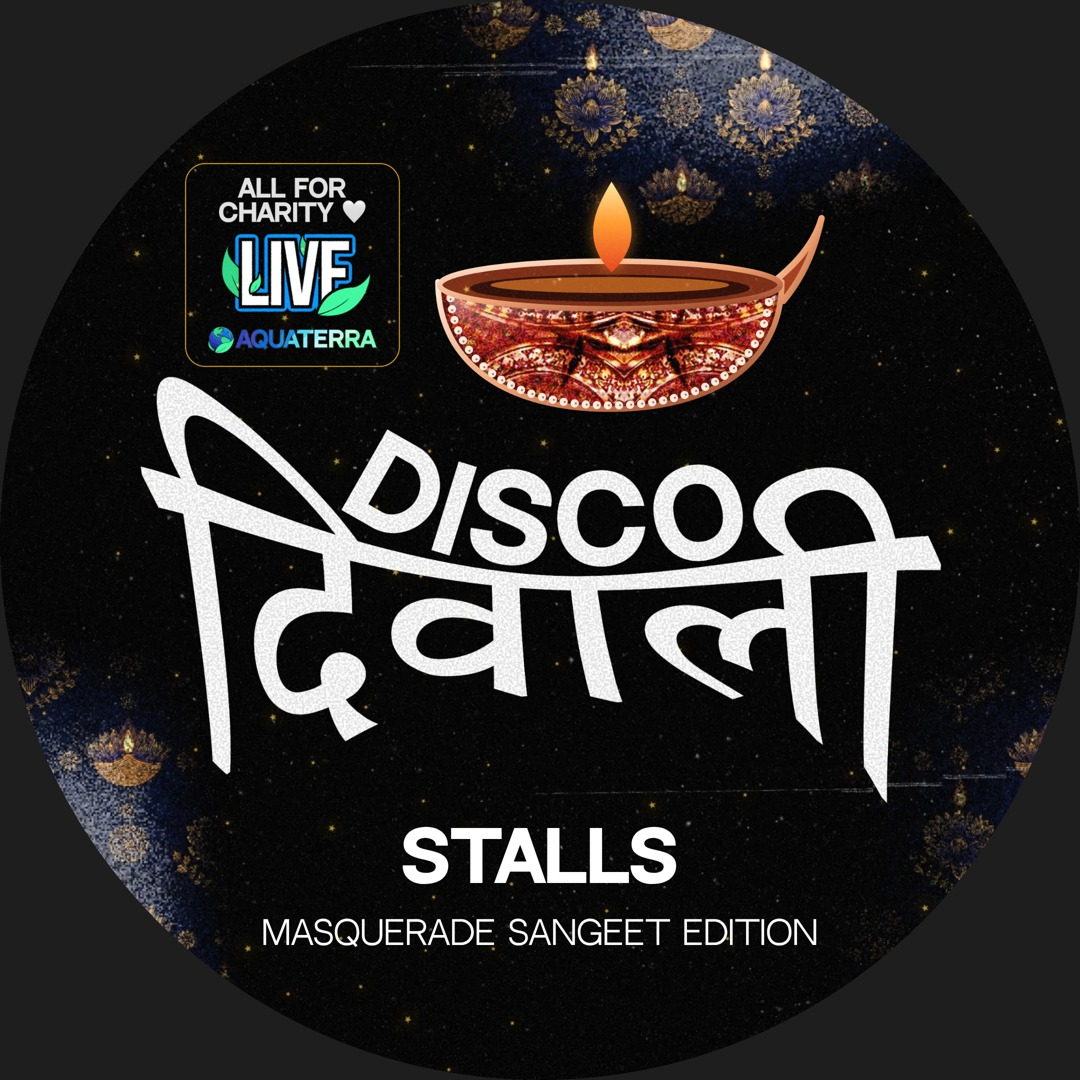
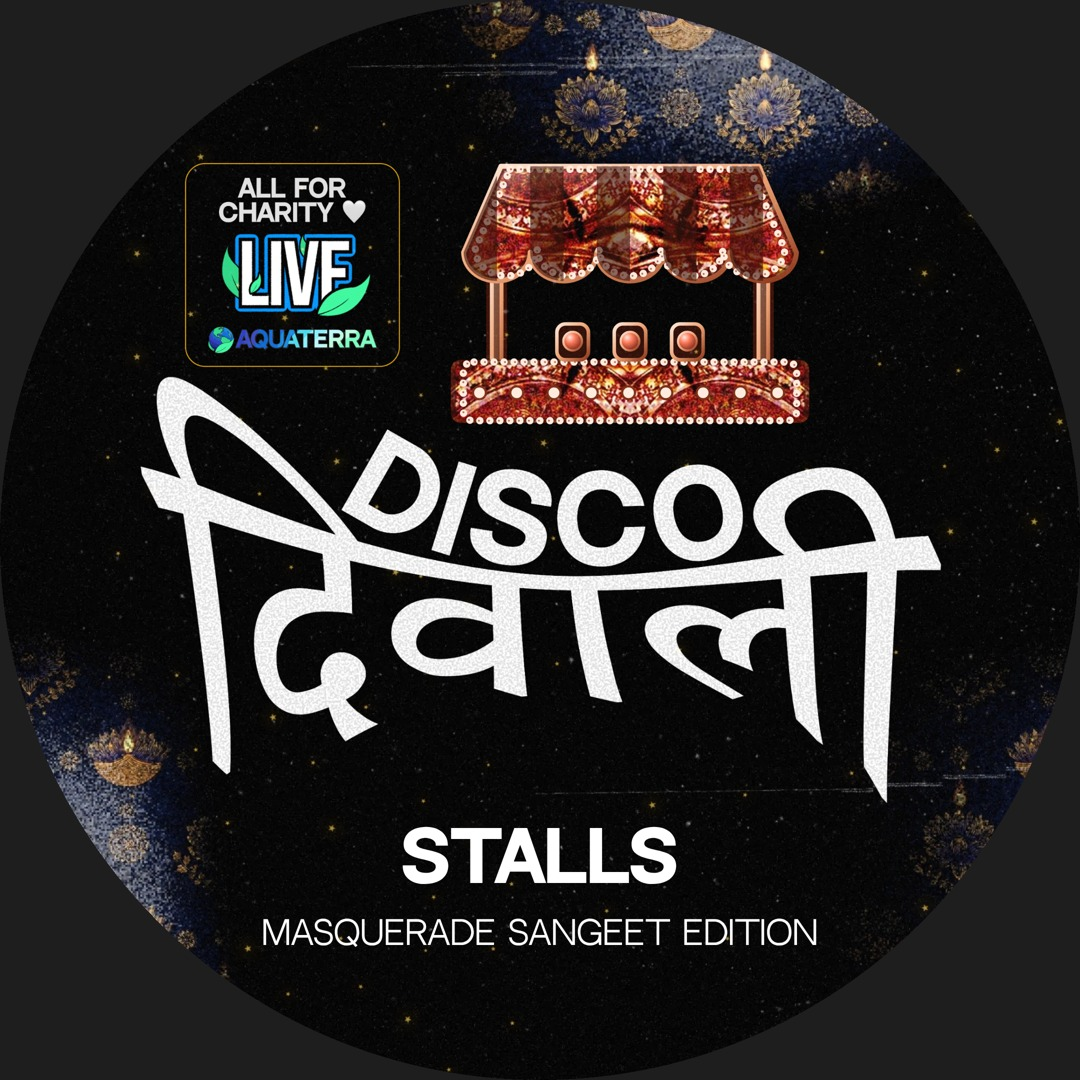
Disco Diwali: copper market-stall sticker, used on the stalls group DP
Claude-Session: https://claude.ai/code/session_01NMJzQ744hzFCayFxgENyjN

Changed region(s): [[0.3972, 0.1528, 0.7639, 0.3972]]

diff --git a/scratchpad/dd_copper.py b/scratchpad/dd_copper.py
@@ -88,3 +88,20 @@ def pin(size=340, rot=0, u="p", shadow=True):
             f'<circle cx="200" cy="150" r="66" fill="#2E0C05" stroke="url(#tr{u})" stroke-width="8"/>'
             f'<circle cx="200" cy="150" r="66" fill="none" stroke="#FFEBDD" stroke-width="9" stroke-dasharray="0 14" stroke-linecap="round" transform="translate(200 150) scale(.84) translate(-200 -150)"/>'
             f'<circle cx="200" cy="150" r="34" fill="url(#gem{u})" stroke="url(#tr{u})" stroke-width="6"/></g></svg>')
+
+
+def stall(size=420, rot=0, u="t", shadow=True):
+    """Copper market stall (for the stalls group): a scalloped awning with dark stripes, two posts, a beaded counter and three gem jars on it. Surface is the mask's own copper texture."""
+    n, w0 = 5, 92.8
+    awn = "M70 30 H430 L482 150 " + "".join(f"A{w0 / 2} 40 0 0 1 {482 - w0 * (i + 1):.1f} 150 " for i in range(n)) + "L70 30 Z"
+    bands = "".join(f'<rect x="{18 + w0 * i:.1f}" y="20" width="{w0 / 2:.1f}" height="190" fill="#3A0F06" opacity=".62"/>' for i in range(n))
+    post = lambda x, k: (f'<rect x="{x}" y="170" width="24" height="190" rx="6" fill="url(#tr{u})" stroke="#3A0F06" stroke-width="5"/>'
+                         f'<rect x="{x + 8}" y="180" width="8" height="165" rx="4" fill="#2E0C05" opacity=".6"/>')
+    counter = "M16 300 H484 Q500 300 500 316 V372 Q500 388 484 388 H16 Q0 388 0 372 V316 Q0 300 16 300 Z"
+    beads = "".join(f'<circle cx="{40 + i * 52}" cy="346" r="9" fill="#FFEBDD" stroke="#7A2A12" stroke-width="3"/>' for i in range(9))
+    jars = "".join(f'<g transform="translate({x} 0)"><rect x="-22" y="250" width="44" height="50" rx="12" fill="#2E0C05" stroke="url(#tr{u})" stroke-width="5"/><circle cx="0" cy="274" r="13" fill="url(#gem{u})" stroke="url(#tr{u})" stroke-width="3"/></g>' for x in (170, 250, 330))
+    return (f'<svg xmlns="http://www.w3.org/2000/svg" width="{size}" height="{round(size * .82)}" viewBox="0 0 500 410" style="display:block;overflow:visible">{_defs(u)}'
+            f'<defs><radialGradient id="gem{u}" cx=".35" cy=".3" r=".8"><stop offset="0" stop-color="#FFEADF"/><stop offset=".35" stop-color="#FF7A5A"/><stop offset="1" stop-color="#6A1208"/></radialGradient></defs>'
+            f'<g transform="rotate({rot} 250 205)"{_sh(u, shadow)}>{post(52, 1)}{post(424, 2)}'
+            f'{_metal(u + "c", counter, 500, 410, .93, 250, 344)}{beads}{jars}'
+            f'{_metal(u, awn, 500, 410, .93, 250, 90)}<clipPath id="ab{u}"><path d="{awn}"/></clipPath><g clip-path="url(#ab{u})">{bands}</g></g></svg>')

diff --git a/engine/discodiwali.py b/engine/discodiwali.py
@@ -720,10 +720,10 @@ class Poster:
         k = .2847                                         # copper mask: visible width 400 (the poster's 692 at 0.58x), shifted right of the badge
         mx, my = 430, 140 + DY
         if self.c.get("sticker"):                         # a copper sticker (assets sticker_<name>.png) in the mask's slot, centred on the mask's footprint
-            im = Image.open(ASSETS + f"sticker_{self.c['sticker']}.png"); sw = 400; sh = round(sw * im.height / im.width)
+            im = Image.open(ASSETS + f"sticker_{self.c['sticker']}.png"); sw = min(400, round(270 * im.width / im.height)); sh = round(sw * im.height / im.width)
             sy = my + (263 - sh) // 2
-            self.img(f"sticker_{self.c['sticker']}.png", mx, sy, sw, z=6, tag="mask", extra="filter:drop-shadow(0 6px 18px rgba(0,0,0,.6));")
-            self.box("mask", mx, sy, sw, sh)
+            self.img(f"sticker_{self.c['sticker']}.png", mx + (400 - sw) // 2, sy, sw, z=6, tag="mask", extra="filter:drop-shadow(0 6px 18px rgba(0,0,0,.6));")
+            self.box("mask", mx + (400 - sw) // 2, sy, sw, sh)
         else:
             self.img("mask_copper.png", round(mx - 157 * k), round(my - 211 * k), round(1680 * k), z=6, tag="mask",
                      extra="filter:drop-shadow(0 6px 18px rgba(0,0,0,.6));")

diff --git a/scratchpad/dd_stalls_dp.py b/scratchpad/dd_stalls_dp.py
@@ -6,7 +6,7 @@ from PIL import Image, ImageDraw
 out = os.path.join(ROOT, "out", "discodiwali", "stalls")
 async def main():
     async with dd.B.session():
-        await dd.render_poster("wa_dp", dict(edition="Masquerade Sangeet Edition", group="Stalls", sticker="diya"), "square",
+        await dd.render_poster("wa_dp", dict(edition="Masquerade Sangeet Edition", group="Stalls", sticker="stall"), "square",
                                os.path.join(out, "stalls_dp.png"), style="plate", mask="copper")
     dp = Image.open(os.path.join(out, "stalls_dp.png")).convert("RGB")
     m = Image.new("L", dp.size, 0); ImageDraw.Draw(m).ellipse((0, 0, dp.size[0]-1, dp.size[1]-1), fill=255)
